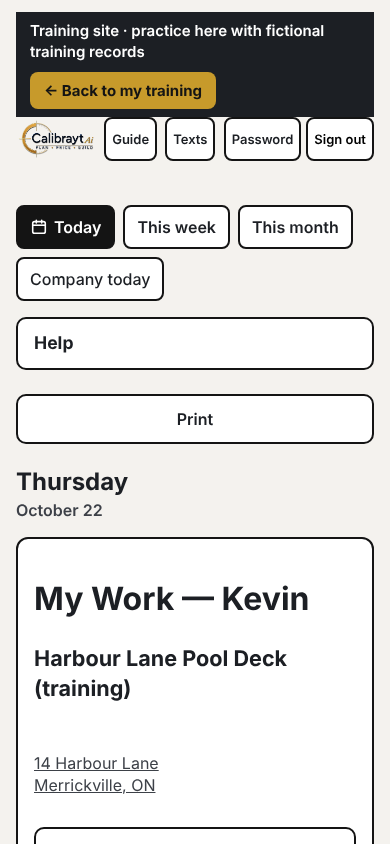
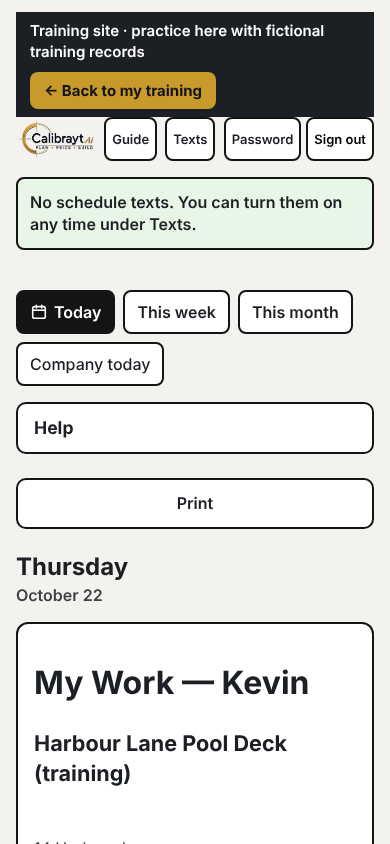
Ask for schedule-text consent once, when a worker first opens Field
Joel's direction: the consent moment is Field setup. The first time a worker
opens Field (after setting the password, or from the Home Screen icon, which
lands on Field Today), Field Today shows one plain question, "Get a text when
your schedule changes?", with their mobile number (filled in if the office
saved one), the agreement sentence, and Yes, text me / Not now.

- Yes records consent: sms_consent_events OPTED_IN, method SELF_FIELD_SETUP,
  note "self, at Field setup", by the worker. Not now records NOT_NOW; texts
  stay off and Field carries on. Asked once (any consent answer counts); Field ->
  Texts changes it later. New Field endpoint field.text_messages_setup (POST, own
  answer only), added to the frozen Field-only set in the route sweep.
- Office path is secondary: People & Access can save a number without consent
  (no texts; it pre-fills Field's question) or record consent with how they agreed.
- Tests: question shown once with the office number, Yes, Not now never blocks
  Field and texts can be turned on later, Yes without a number, not shown after
  office-recorded consent. Walk (390 px): Kevin answers Yes, Liam Not now.
- Field Crew lesson f01 step "Answer the schedule texts question" (picture
  f01-texts-setup.png), f03 texts lesson, Getting started and Tutor text updated;
  Field Crew pictures recaptured from the real pages.

Claude-Session: https://claude.ai/code/session_01Gt3yQsGEScje26ZopVkG3s

diff --git a/app/templates/settings/people/detail.html b/app/templates/settings/people/detail.html
@@ -82,7 +82,7 @@
 
 <section class="form-panel" aria-labelledby="texts-heading" data-person-texts="{{ 'on' if texts.contact and texts.contact.sms_opt_in else 'off' }}">
     <h2 id="texts-heading">Schedule texts</h2>
-    <p class="muted-copy">A text when their scheduled work moves, or they are put on or taken off work. Only with their agreement: enter their number here when they have said yes (or they turn texts on themselves from Field, under Texts).</p>
+    <p class="muted-copy">A text when their scheduled work moves, or they are put on or taken off work. Only with their agreement. The first time they open Field it asks them (Yes / Not now), with the number you save here filled in; they can change it any time under Texts. Tick the box only if they have already told you yes.</p>
     {% if texts.contact and texts.contact.sms_opt_in %}
     <p><strong>On</strong> for {{ texts.contact.mobile_phone }}{% if texts.contact.opted_in_at %} since {{ texts.contact.opted_in_at|local_time("%b %d, %Y") }}{% endif %}.</p>
     <form method="post" action="{{ url_for('sms_notifications.person_texts', membership_id=person.membership_id) }}" class="people-access-actions">
@@ -104,7 +104,7 @@
     </form>
     {% endif %}
     {% if texts.history %}
-    <ul class="people-history" data-person-texts-history="{{ texts.history|length }}">{% for h in texts.history %}<li><strong>{{ h.created_at|local_time("%b %d, %Y %H:%M") }}</strong> · {{ {"OPTED_IN": "Texts turned on", "OPTED_OUT": "Texts turned off", "NUMBER_CHANGED": "Number changed"}.get(h.action, h.action) }} · {{ {"SELF_FIELD": "by them on Field", "SELF_ACCOUNT": "by them", "OFFICE_ON_BEHALF": "by " ~ h.recorded_by_display_name, "REPLY_STOP": "they replied STOP", "REPLY_START": "they replied START", "PROVIDER": "Twilio: number opted out"}.get(h.method, h.method) }}{% if h.note %} ({{ h.note }}){% endif %}</li>{% endfor %}</ul>
+    <ul class="people-history" data-person-texts-history="{{ texts.history|length }}">{% for h in texts.history %}<li><strong>{{ h.created_at|local_time("%b %d, %Y %H:%M") }}</strong> · {{ {"OPTED_IN": "Texts turned on", "OPTED_OUT": "Texts turned off", "NUMBER_CHANGED": "Number changed", "NOT_NOW": "Not now (asked at Field setup)"}.get(h.action, h.action) }} · {{ {"SELF_FIELD_SETUP": "by them at Field setup", "SELF_FIELD": "by them on Field", "SELF_ACCOUNT": "by them", "OFFICE_ON_BEHALF": "by " ~ h.recorded_by_display_name, "REPLY_STOP": "they replied STOP", "REPLY_START": "they replied START", "PROVIDER": "Twilio: number opted out"}.get(h.method, h.method) }}{% if h.note %} ({{ h.note }}){% endif %}</li>{% endfor %}</ul>
     {% endif %}
 </section>
 

diff --git a/app/templates/field/_texts_setup.html b/app/templates/field/_texts_setup.html
@@ -1,0 +1,26 @@
+{# One-time question when a worker first opens Field (Joel, 22 Oct 2026). Not now never blocks Field. #}
+{% set texts_setup = field_texts_setup() %}
+{% if texts_setup is not none %}
+<section class="field-panel field-texts-setup" data-field-texts-setup aria-labelledby="texts-setup-heading">
+    <h2 id="texts-setup-heading">Get a text when your schedule changes?</h2>
+    <p>When the office moves your work, puts you on a job or takes you off one, you get one text with the old and new dates. Nothing about money or the customer. You can change this any time under Texts.</p>
+    <form method="post" action="{{ url_for('field.text_messages_setup') }}">
+        <input type="hidden" name="csrf_token" value="{{ csrf_token() }}">
+        <label class="field-label">
+            Your mobile number
+            <input type="tel" name="mobile_phone" class="field-input" autocomplete="tel" inputmode="tel" placeholder="613-555-0100" value="{{ texts_setup.phone }}">
+        </label>
+        <p class="field-muted">Yes means: {{ texts_setup.wording }}</p>
+        <div class="field-texts-setup-actions">
+            <button type="submit" name="answer" value="yes" class="field-btn field-btn-primary" data-texts-setup-yes>Yes, text me</button>
+            <button type="submit" name="answer" value="no" class="field-btn field-btn-secondary" formnovalidate data-texts-setup-no>Not now</button>
+        </div>
+    </form>
+</section>
+<style>
+    .field-texts-setup { border-width: 3px; }
+    .field-texts-setup h2 { margin-top: 0; }
+    .field-texts-setup-actions { display: flex; flex-wrap: wrap; gap: 8px; }
+    .field-texts-setup-actions .field-btn { flex: 1 1 140px; }
+</style>
+{% endif %}

diff --git a/app/templates/field/text_messages.html b/app/templates/field/text_messages.html
@@ -34,7 +34,7 @@
     <h2 class="field-texts-subhead">Your changes</h2>
     <ul class="field-texts-history">
         {% for h in history %}
-        <li>{{ h.created_at|local_time("%b %d, %Y") }} · {{ {"OPTED_IN": "Texts turned on", "OPTED_OUT": "Texts turned off", "NUMBER_CHANGED": "Number changed"}.get(h.action, h.action) }}{% if h.method == "OFFICE_ON_BEHALF" %} by {{ h.recorded_by_display_name }}{% elif h.method in ("REPLY_STOP", "REPLY_START") %} (text reply){% endif %}</li>
+        <li>{{ h.created_at|local_time("%b %d, %Y") }} · {{ {"OPTED_IN": "Texts turned on", "OPTED_OUT": "Texts turned off", "NUMBER_CHANGED": "Number changed", "NOT_NOW": "Not now (asked at Field setup)"}.get(h.action, h.action) }}{% if h.method == "OFFICE_ON_BEHALF" %} by {{ h.recorded_by_display_name }}{% elif h.method in ("REPLY_STOP", "REPLY_START") %} (text reply){% endif %}</li>
         {% endfor %}
     </ul>
     {% endif %}

diff --git a/app/templates/field/today.html b/app/templates/field/today.html
@@ -3,6 +3,7 @@
 {% block field_page %}today{% endblock %}
 {% block content %}
 {% set nav_current = 'today' %}
+{% include "field/_texts_setup.html" %}
 {% include "field/_field_nav.html" %}
 {% from "partials/contextual_help.html" import contextual_help with context %}
 {{ contextual_help(help_content.field_topic("today")) }}

diff --git a/tests/test_sms_schedule_notices.py b/tests/test_sms_schedule_notices.py
@@ -561,9 +561,11 @@ def test_owner_records_a_workers_consent_with_who_when_and_how(app, client):
     membership = UserMembership.query.filter_by(user_id=kevin.id).one()
     page = client.get(f"/settings/people/{membership.id}").get_data(as_text=True)
     assert 'data-person-texts="off"' in page
-    refused = client.post(f"/settings/people/{membership.id}/texts",
-                          data={"mobile_phone": "613-555-0101", "how": "In person"}, follow_redirects=True)
-    assert b"agreed to get schedule texts" in refused.data and contact_missing(kevin)
+    number_only = client.post(f"/settings/people/{membership.id}/texts",
+                              data={"mobile_phone": "613-555-0101", "how": "In person"}, follow_redirects=True)
+    assert b"Number saved. No texts until" in number_only.data and contact_missing(kevin)
+    assert NotificationContact.query.filter_by(user_id=kevin.id).one().mobile_phone == "+16135550101"
+    assert SmsConsentEvent.query.filter_by(user_id=kevin.id).count() == 0  # a number is not an answer
     client.post(f"/settings/people/{membership.id}/texts",
                 data={"mobile_phone": "613-555-0101", "how": "In person at the shop", "consent": "yes"})
     event = SmsConsentEvent.query.filter_by(user_id=kevin.id).one()
@@ -660,3 +662,72 @@ def test_cli_sends_due_notices_and_reports_settings_without_secrets(app, sent):
     app.config.update({"TWILIO_AUTH_TOKEN": TOKEN})
     status = runner.invoke(args=["sms", "status"]).output
     assert "live=False" in status and TOKEN not in status
+
+
+# ------------------------------------------------------------------ the one-time question at Field setup
+
+def _field_phone(app, email="kevin.sms@example.invalid"):
+    from app.models.user import UserMembership
+    from app.services.access_domains import set_field_only
+
+    owner = _owner(app)
+    worker = _worker("Kevin Synthetic", email)
+    set_field_only(UserMembership.query.filter_by(user_id=worker.id).one(), True, owner)
+    phone = app.test_client()
+    login_office_user(phone, email, "Synthetic-pw-1")
+    return worker, phone
+
+
+@pytest.mark.no_office_auth
+def test_field_setup_asks_once_and_yes_records_consent_with_the_office_number(app):
+    kevin, phone = _field_phone(app)
+    db.session.add(NotificationContact(user_id=kevin.id, mobile_phone="+16135550101", sms_opt_in=False))
+    db.session.commit()  # the office saved his number, without consent
+    today = phone.get("/field/today").get_data(as_text=True)
+    assert "data-field-texts-setup" in today and "Get a text when your schedule changes?" in today
+    assert 'value="+16135550101"' in today
+    response = phone.post("/field/text-messages/setup", data={"answer": "yes", "mobile_phone": "+16135550101"},
+                          follow_redirects=True)
+    assert b"Schedule texts are on" in response.data and b"data-field-texts-setup" not in response.data
+    contact = NotificationContact.query.filter_by(user_id=kevin.id).one()
+    assert contact.sms_opt_in and contact.mobile_phone == "+16135550101"
+    event = SmsConsentEvent.query.filter_by(user_id=kevin.id).one()
+    assert (event.action, event.method, event.note, event.recorded_by_user_id) == (
+        "OPTED_IN", "SELF_FIELD_SETUP", "self, at Field setup", kevin.id)
+    assert b"data-field-texts-setup" not in phone.get("/field/today").data  # asked once only
+
+
+@pytest.mark.no_office_auth
+def test_field_setup_not_now_never_blocks_field_and_texts_can_be_turned_on_later(app):
+    kevin, phone = _field_phone(app)
+    assert b"data-field-texts-setup" in phone.get("/field/today").data
+    response = phone.post("/field/text-messages/setup", data={"answer": "no"}, follow_redirects=True)
+    assert response.status_code == 200 and b"You can turn them on any time under Texts" in response.data
+    assert b"data-field-texts-setup" not in response.data
+    assert NotificationContact.query.filter_by(user_id=kevin.id).first() is None
+    event = SmsConsentEvent.query.filter_by(user_id=kevin.id).one()
+    assert (event.action, event.method) == ("NOT_NOW", "SELF_FIELD_SETUP")
+    for page in ("/field/today", "/field/week", "/field/month"):
+        assert phone.get(page).status_code == 200
+    assert b"data-field-texts-setup" not in phone.get("/field/today").data
+    phone.post("/field/text-messages", data={"mobile_phone": "613-555-0101", "consent": "yes"})
+    assert NotificationContact.query.filter_by(user_id=kevin.id).one().sms_opt_in is True
+
+
+@pytest.mark.no_office_auth
+def test_field_setup_yes_without_a_number_asks_again(app):
+    kevin, phone = _field_phone(app)
+    response = phone.post("/field/text-messages/setup", data={"answer": "yes", "mobile_phone": ""},
+                          follow_redirects=True)
+    assert b"Enter your mobile number" in response.data and b"data-field-texts-setup" in response.data
+    assert SmsConsentEvent.query.filter_by(user_id=kevin.id).count() == 0
+
+
+def test_field_setup_question_is_not_shown_once_the_office_recorded_consent(app, client):
+    from app.services.text_messages import field_setup_question_due
+
+    kevin = _worker("Kevin Synthetic", "kevin.sms@example.invalid")
+    assert field_setup_question_due(kevin)
+    save_contact(kevin, mobile_phone="613-555-0101", opt_in=True, method="OFFICE_ON_BEHALF",
+                 recorded_by=ensure_office_user(), note="In person")
+    assert not field_setup_question_due(kevin)

diff --git a/app/training/field_crew.py b/app/training/field_crew.py
@@ -14,8 +14,9 @@ promises more than Field does, the lesson says so plainly and says what the offi
   change a drawing, and it does not show the customer's contract, the quote or the material list.
 - Schedule changes: only the office changes dates. The new dates show the next time a Field page opens (it checks
   itself when the app comes back on screen). A worker who turns on schedule texts (Field → Texts) also gets one
-  text when the office moves their work, puts them on it or takes them off it (22 Oct 2026). The training site
-  never sends a real text.
+  text when the office moves their work, puts them on it or takes them off it (22 Oct 2026). Field asks once,
+  the first time the worker opens it (Yes / Not now); Field → Texts changes it later. The training site never
+  sends a real text.
 - Progress updates: there is no percent-complete or status button. A progress update is a note and photos on
   Capture; the office reads them under Field Observations.
 - Refresh: there is no refresh button. Tap Today (or This week) again, or close and reopen the app.
@@ -144,6 +145,16 @@ M01 = Module(
                             "Help; Print; the date; My Work — your first name.",
                      if_wrong="If an office page opens, stop and tell Ben: you should be Field only.",
                      shot="f01-field-today.png", endpoint="field.today"),
+                Step(title="Answer the schedule texts question", app=F,
+                     where="Field Today → Get a text when your schedule changes? (only the first time)",
+                     do="Check your mobile number. Tap Yes, text me, or Not now",
+                     expect="Yes: Schedule texts are on. Not now: No schedule texts. Either way Field opens and the "
+                            "question does not come back.",
+                     why="Yes is your agreement to get a text when the office moves your work. It is saved with "
+                         "the date. You can change your mind any time under Texts.",
+                     if_wrong="'Enter your mobile number' means the number box was empty or too short. Type it, or "
+                              "tap Not now and turn texts on later (lesson 'Schedule texts').",
+                     shot="f01-texts-setup.png", endpoint="field.today"),
                 Step(title="The buttons at the very top", app=F, where="Field → the black bar at the top",
                      do="Find Guide, Texts, Password and Sign out",
                      expect="Guide opens your day on Field step by step. Texts turns schedule texts on or off. "
@@ -390,13 +401,15 @@ M03 = Module(
         ),
         Lesson(
             key="f03-texts", title="Schedule texts: a text when your work moves",
-            what="Turn on schedule texts, know what a text says, and turn them off again.",
+            what="Turn on schedule texts (if you said Not now at first), know what a text says, and turn them off "
+                 "again.",
             why="When the office moves your work, puts you on a job or takes you off one, you get one text with the "
                 "old and new dates, so you do not drive to the wrong site. Texts are only sent if you agree.",
             steps=(
                 Step(title="Open Texts", app=F, where="Field → Texts (at the very top, next to Password)",
                      do="Tap Texts",
-                     expect="Schedule texts. It says Texts are off, with a box for your mobile number and a box to "
+                     expect="Schedule texts. If you said Yes when Field first asked, it says Texts are on. If you "
+                            "tapped Not now, it says Texts are off, with a box for your mobile number and a box to "
                             "tick.",
                      if_wrong="No Texts button? Tap Today first; Texts is in the black bar at the top of every "
                               "Field page.",
@@ -427,8 +440,9 @@ M03 = Module(
                      if_wrong="Still getting texts? Reply STOP to the text, then call the office.",
                      shot="f03-texts-on.png", endpoint="field.text_messages"),
             ),
-            exercise="On the training site: open Texts, turn on schedule texts with your mobile number, then tap "
-                     "Stop schedule texts. (The training site never sends a real text.)",
+            exercise="On the training site: open Texts, turn on schedule texts with your mobile number (if you "
+                     "said Not now when Field first asked), then tap Stop schedule texts. (The training site never "
+                     "sends a real text.)",
         ),
     ),
 )

diff --git a/app/routes/sms_notifications.py b/app/routes/sms_notifications.py
@@ -81,7 +81,19 @@ def _sms_helpers():
         except Exception:
             return 0
 
-    return {"sms_schedule_attention": sms_schedule_attention}
+    def field_texts_setup():
+        """The one-time "Get a text when your schedule changes?" question on Field (None when not due)."""
+        try:
+            from app.services.text_messages import CONSENT_WORDING, contact_for, field_setup_question_due
+
+            if not getattr(current_user, "is_authenticated", False) or not field_setup_question_due(current_user):
+                return None
+            contact = contact_for(current_user)
+            return {"phone": (contact.mobile_phone if contact else "") or "", "wording": CONSENT_WORDING}
+        except Exception:
+            return None
+
+    return {"sms_schedule_attention": sms_schedule_attention, "field_texts_setup": field_texts_setup}
 
 
 def _require_scheduling_authority():
@@ -216,7 +228,18 @@ def person_texts(membership_id):
             flash(f"Schedule texts turned off for {user.display_name}.", "success")
             return redirect(back)
         if request.form.get("consent") != "yes":
-            raise TextSettingsError(f"Confirm that {user.display_name} agreed to get schedule texts at this number.")
+            from app.services.text_messages import contact_for
+
+            current = contact_for(user)
+            if current is not None and current.sms_opt_in:
+                raise TextSettingsError(f"Confirm that {user.display_name} agreed to get schedule texts at this number.")
+            # Number only (Joel, 22 Oct 2026): no texts until the worker says yes; Field asks them the first time
+            # they open it, with this number filled in.
+            save_contact(user, mobile_phone=request.form.get("mobile_phone", ""), opt_in=False,
+                         method=METHOD_OFFICE_ON_BEHALF, recorded_by=current_user, organization_id=org_id)
+            flash(f"Number saved. No texts until {user.display_name} says yes: Field asks them the first time they "
+                  "open it (or tick the box when they have agreed).", "success")
+            return redirect(back)
         how = (request.form.get("how") or "").strip()
         if not how:
             raise TextSettingsError("Say how they agreed (for example: in person, 22 Oct, at the shop).")
@@ -261,6 +284,23 @@ def field_settings_view():
     contact = contact_for(current_user)
     return render_template("field/text_messages.html", contact=contact, wording=CONSENT_WORDING,
                            history=consent_history(current_user.id, limit=5), nav_current="texts")
+
+
+def field_setup_answer_view():
+    """Served by the Field blueprint at POST /field/text-messages/setup (field.text_messages_setup): the answer to
+    the one-time question. Not now never blocks Field; either way the worker lands back on Field Today."""
+    from app.services.text_messages import TextSettingsError, answer_field_setup_question
+
+    yes = request.form.get("answer") == "yes"
+    try:
+        answer_field_setup_question(current_user, yes=yes, mobile_phone=request.form.get("mobile_phone", ""),
+                                    organization_id=get_current_organization_id())
+    except TextSettingsError as exc:
+        flash(f"{exc} Or tap Not now; you can turn texts on later under Texts.", "error")
+    else:
+        flash("Schedule texts are on. Change this any time under Texts." if yes else
+              "No schedule texts. You can turn them on any time under Texts.", "success")
+    return redirect(url_for("field.today"))
 
 
 # ------------------------------------------------------------------ Twilio (public, signature-checked)

diff --git a/tests/sms_notifications_server.py b/tests/sms_notifications_server.py
@@ -3,7 +3,9 @@
 A temporary SQLite database built by the real migrations. On top of that, only:
 
 * Ben Brayman (synthetic), the Instance Owner, who reschedules on a desktop;
-* Kevin Fieldhand (synthetic), a Field-only crew member on an iPhone-sized screen, with no text consent yet;
+* Kevin Fieldhand (synthetic), a Field-only crew member on an iPhone-sized screen. The office saved his mobile
+  number (without consent), so Field's one-time question shows it filled in;
+* Liam Crewhand (synthetic), Field-only, no number, who answers Not now;
 * one customer job in Merrickville with one work item scheduled next week and Kevin assigned to it.
 
 Texts go to a fake transport that appends each one to a file (never Twilio, never a phone). CSRF is on, as in
@@ -30,6 +32,7 @@ from app import create_app, db  # noqa: E402
 
 BEN = ("ben.sms@example.invalid", "Synthetic-ben-sms-1", "Ben Brayman (synthetic)")
 KEVIN = ("kevin.sms@example.invalid", "Synthetic-kevin-sms-1", "Kevin Fieldhand (synthetic)")
+LIAM = ("liam.sms@example.invalid", "Synthetic-liam-sms-1", "Liam Crewhand (synthetic)")
 PROJECT = "Pat Synthetic-Homeowner deck"
 CLIENT = "Pat Synthetic-Homeowner"
 WORK = "Footings (synthetic)"
@@ -59,6 +62,12 @@ def _seed():
     set_instance_owner(ORG, UserMembership.query.filter_by(user_id=ben.id, organization_id=ORG).one().id, ben.id)
     kevin = ensure_office_user(email=KEVIN[0], password=KEVIN[1], display_name=KEVIN[2])
     set_field_only(UserMembership.query.filter_by(user_id=kevin.id, organization_id=ORG).one(), True, ben)
+    liam = ensure_office_user(email=LIAM[0], password=LIAM[1], display_name=LIAM[2])
+    set_field_only(UserMembership.query.filter_by(user_id=liam.id, organization_id=ORG).one(), True, ben)
+    from app.models.supplier_portal import NotificationContact
+
+    db.session.add(NotificationContact(user_id=kevin.id, mobile_phone="+16135550142", sms_opt_in=False))
+    db.session.commit()
     client = Client(name=CLIENT, organization_id=ORG, email="pat.homeowner@example.invalid")
     db.session.add(client)
     db.session.flush()
@@ -76,7 +85,8 @@ def _seed():
     assign_user(item.id, worker_user_id=kevin.id, organization_id=ORG)
     send_due_notices(force=True)  # the set-up assignment: Kevin had not agreed to texts, so nothing is sent
     membership = UserMembership.query.filter_by(user_id=kevin.id, organization_id=ORG).one()
-    return {"ben": [BEN[0], BEN[1]], "kevin": [KEVIN[0], KEVIN[1]], "kevin_name": KEVIN[2], "client": CLIENT,
+    return {"ben": [BEN[0], BEN[1]], "kevin": [KEVIN[0], KEVIN[1]], "kevin_name": KEVIN[2],
+            "liam": [LIAM[0], LIAM[1]], "client": CLIENT,
             "project": PROJECT, "work": WORK, "item_id": item.id, "start": start.isoformat(),
             "kevin_membership_id": membership.id}
 

diff --git a/app/services/text_messages.py b/app/services/text_messages.py
@@ -35,6 +35,7 @@ from flask import current_app
 
 from app import db
 from app.models.sms_notification import (
+    CONSENT_NOT_NOW,
     CONSENT_NUMBER_CHANGED,
     CONSENT_OPTED_IN,
     CONSENT_OPTED_OUT,
@@ -42,6 +43,7 @@ from app.models.sms_notification import (
     METHOD_REPLY_START,
     METHOD_REPLY_STOP,
     METHOD_SELF_ACCOUNT,
+    METHOD_SELF_FIELD_SETUP,
     SmsConsentEvent,
     SmsDeliveryEvent,
     SmsTextMessageDetail,
@@ -172,6 +174,31 @@ def save_contact(user, *, mobile_phone: str, opt_in: bool, method: str = METHOD_
     db.session.add(contact)
     db.session.commit()
     return contact
+
+
+SETUP_NOTE = "self, at Field setup"
+
+
+def field_setup_question_due(user) -> bool:
+    """Joel, 22 Oct 2026: ask once, when the worker first opens Field (after setting their password, or from the
+    Home Screen icon). Due while the person has no recorded answer at all: no consent and no consent history
+    (a number the office saved without consent does not count as an answer; it pre-fills the question)."""
+    if user is None or not getattr(user, "id", None):
+        return False
+    contact = contact_for(user)
+    if contact is not None and contact.sms_opt_in:
+        return False
+    return SmsConsentEvent.query.filter_by(user_id=user.id).first() is None
+
+
+def answer_field_setup_question(user, *, yes: bool, mobile_phone: str = "", organization_id: Optional[str] = None):
+    """Yes: record consent (self, at Field setup) for the number. Not now: record the answer; texts stay off."""
+    if yes:
+        return save_contact(user, mobile_phone=mobile_phone, opt_in=True, method=METHOD_SELF_FIELD_SETUP,
+                            organization_id=organization_id, note=SETUP_NOTE)
+    _record_consent(user.id, organization_id, CONSENT_NOT_NOW, METHOD_SELF_FIELD_SETUP, None, user, SETUP_NOTE)
+    db.session.commit()
+    return contact_for(user)
 
 
 def consent_history(user_id: int, *, limit: int = 20):

diff --git a/app/services/onboarding.py b/app/services/onboarding.py
@@ -142,9 +142,9 @@ STEPS: List[Step] = [
          "On each iPhone: open the email link in Safari, set the password, then Share → Add to Home Screen (the "
          "CalibraytAI icon is Field). Then open the CalibraytAI address ending in /useful-calculators/ in Safari, "
          "Share → Add to Home Screen, keep the name Useful Calculators, open the new icon, sign in, try a calculator "
-         "and tap ‹ All calculators to return. Ask each one if they want schedule texts: they tap Texts on Field, "
-         "type their mobile number and tick the box (or, with their agreement, enter it on their People & Access "
-         "page). Mark done.",
+         "and tap ‹ All calculators to return. The first time each one opens Field it asks: Get a text when your "
+         "schedule changes? They check their mobile number and tap Yes or Not now (save their number first on "
+         "their People & Access page and it is filled in). They can change it later under Texts. Mark done.",
          "people_access.index"),
     Step("calendars", "Company and personal calendars", "Appointments and the job schedule in one place.",
          "Calendar → New appointment. Choose Company (everyone sees it) or Personal (only you).",

diff --git a/app/training/service.py b/app/training/service.py
@@ -389,7 +389,8 @@ GENERAL_HELP = GENERAL_HELP + (
                                  "(your progress is kept). Field crew get the Field Crew training: Field lessons only."),
     ("field open app today", "On your training home press Open Field: CalibraytAI Field opens at Today. On Field, the "
                              "Training site bar at the top has Back to my training."),
-    ("text texts sms message messages notification notifications stop", "Schedule texts: on Field tap Texts (top of "
+    ("text texts sms message messages notification notifications stop", "Schedule texts: the first time you open Field it "
+     "asks Get a text when your schedule changes? Tap Yes, text me or Not now. Later: on Field tap Texts (top of "
      "the page), type your mobile number, tick the box and tap Turn on schedule texts. When the office moves your "
      "work, puts you on a job or takes you off one, you get one text with the old and new dates and a link to Field. "
      "Stop them with Stop schedule texts or by replying STOP. The office sees each text on Calendar → Text notices "

diff --git a/app/models/sms_notification.py b/app/models/sms_notification.py
@@ -44,8 +44,10 @@ CHANGE_CANCELLED = "CANCELLED"
 CONSENT_OPTED_IN = "OPTED_IN"
 CONSENT_OPTED_OUT = "OPTED_OUT"
 CONSENT_NUMBER_CHANGED = "NUMBER_CHANGED"
-CONSENT_ACTIONS = (CONSENT_OPTED_IN, CONSENT_OPTED_OUT, CONSENT_NUMBER_CHANGED)
-METHOD_SELF_FIELD = "SELF_FIELD"  # the worker, signed in on Field
+CONSENT_NOT_NOW = "NOT_NOW"  # asked at Field setup and answered Not now (texts stay off; asked once only)
+CONSENT_ACTIONS = (CONSENT_OPTED_IN, CONSENT_OPTED_OUT, CONSENT_NUMBER_CHANGED, CONSENT_NOT_NOW)
+METHOD_SELF_FIELD_SETUP = "SELF_FIELD_SETUP"  # the worker, the one-time question when they first open Field
+METHOD_SELF_FIELD = "SELF_FIELD"  # the worker, signed in on Field (Field → Texts)
 METHOD_SELF_ACCOUNT = "SELF_ACCOUNT"  # the person, signed in, on their own account page (office or supplier)
 METHOD_OFFICE_ON_BEHALF = "OFFICE_ON_BEHALF"  # owner / System Administrator, with the worker's consent
 METHOD_REPLY_STOP = "REPLY_STOP"  # the worker replied STOP (or another opt-out word) to a text
